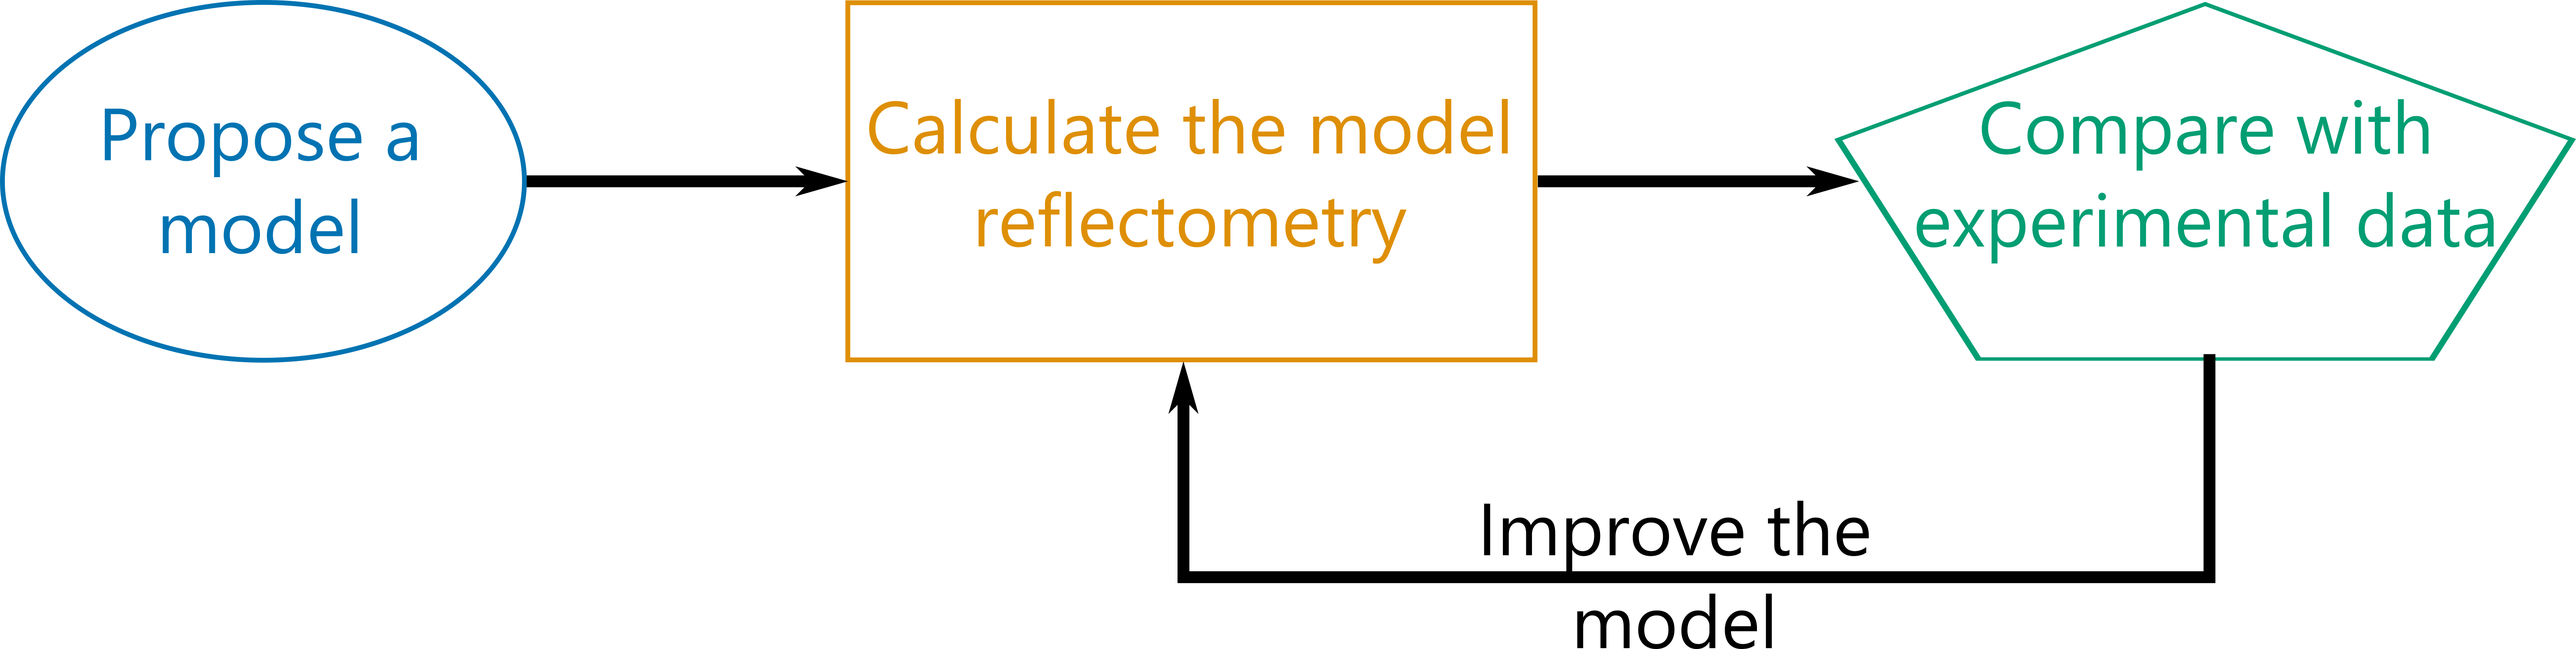
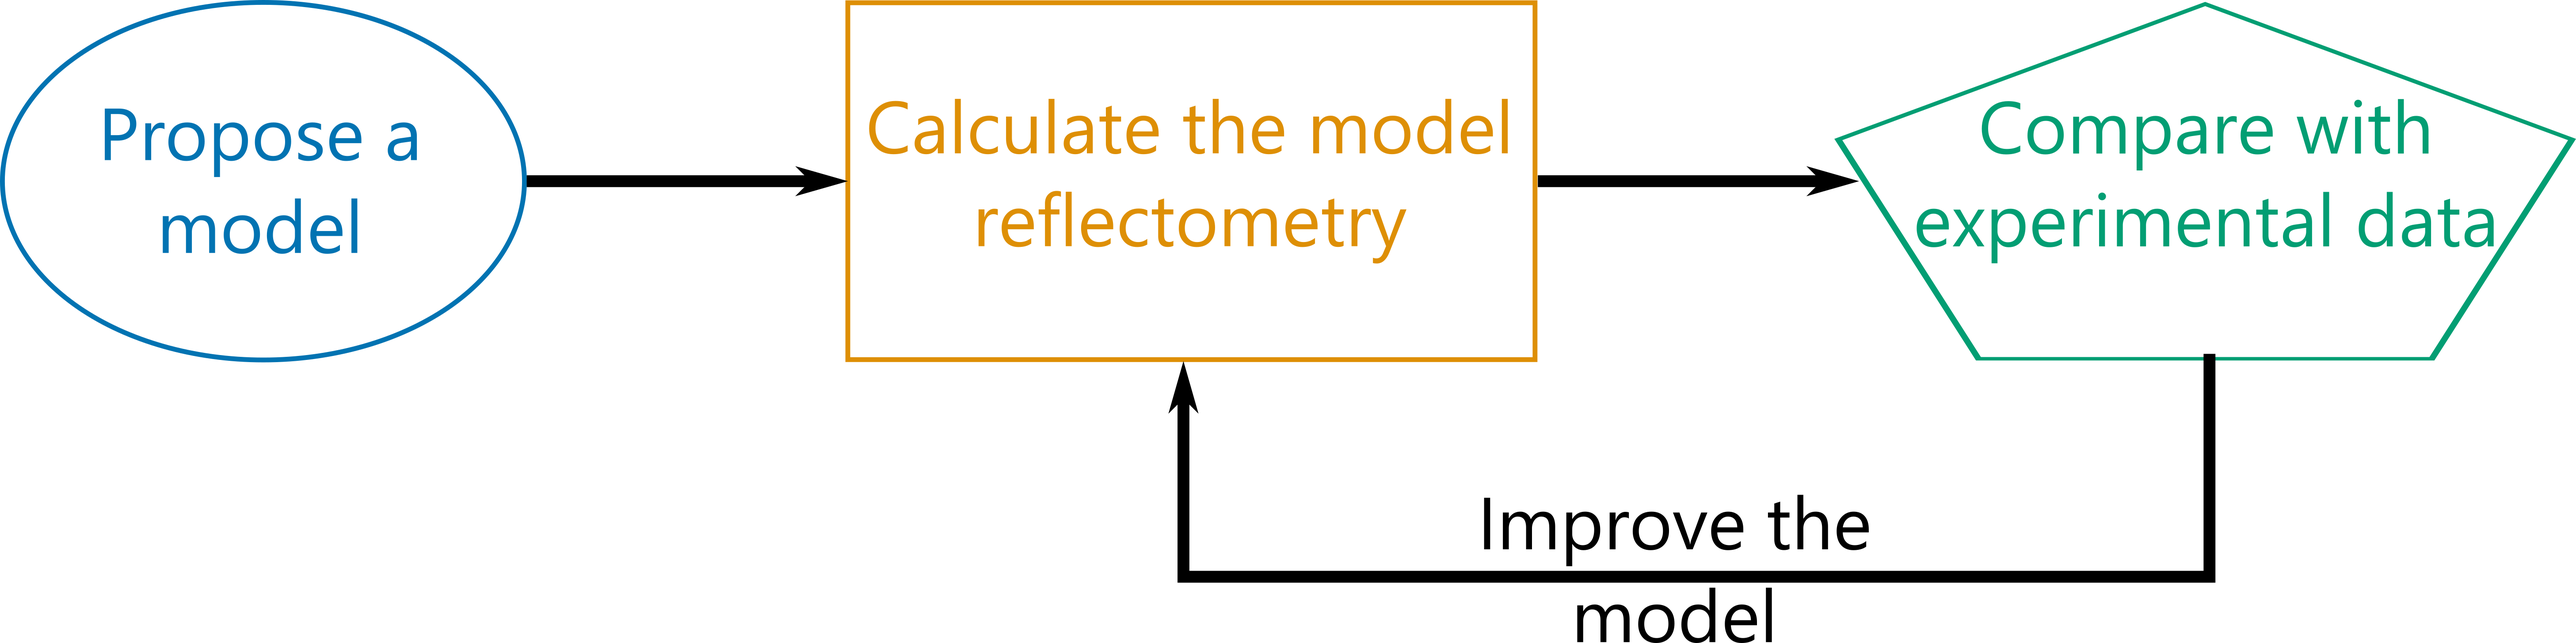
deploy: 5bad8981711d670c054681bae438810c869a9bfe

diff --git a/model_dependent_analysis/what_is_model_dependent_analysis.html b/model_dependent_analysis/what_is_model_dependent_analysis.html
@@ -297,7 +297,7 @@
   <div class="tex2jax_ignore mathjax_ignore section" id="what-is-model-dependent-analysis">
 <h1>What is model-dependent analysis?<a class="headerlink" href="#what-is-model-dependent-analysis" title="Permalink to this headline">¶</a></h1>
 <div class="figure align-center" id="flow-diagram">
-<a class="reference internal image-reference" href="../_images/flow.png"><img alt="../_images/flow.png" src="../_images/flow.png" style="height: 150px;" /></a>
+<a class="reference internal image-reference" href="../_images/flow.png"><img alt="../_images/flow.png" src="../_images/flow.png" style="height: 200px;" /></a>
 <p class="caption"><span class="caption-number">Fig. 2 </span><span class="caption-text">The logical flow of model-dependent analysis, showing the improvement of the model based on the agreement with the data.</span><a class="headerlink" href="#flow-diagram" title="Permalink to this image">¶</a></p>
 </div>
 </div>
